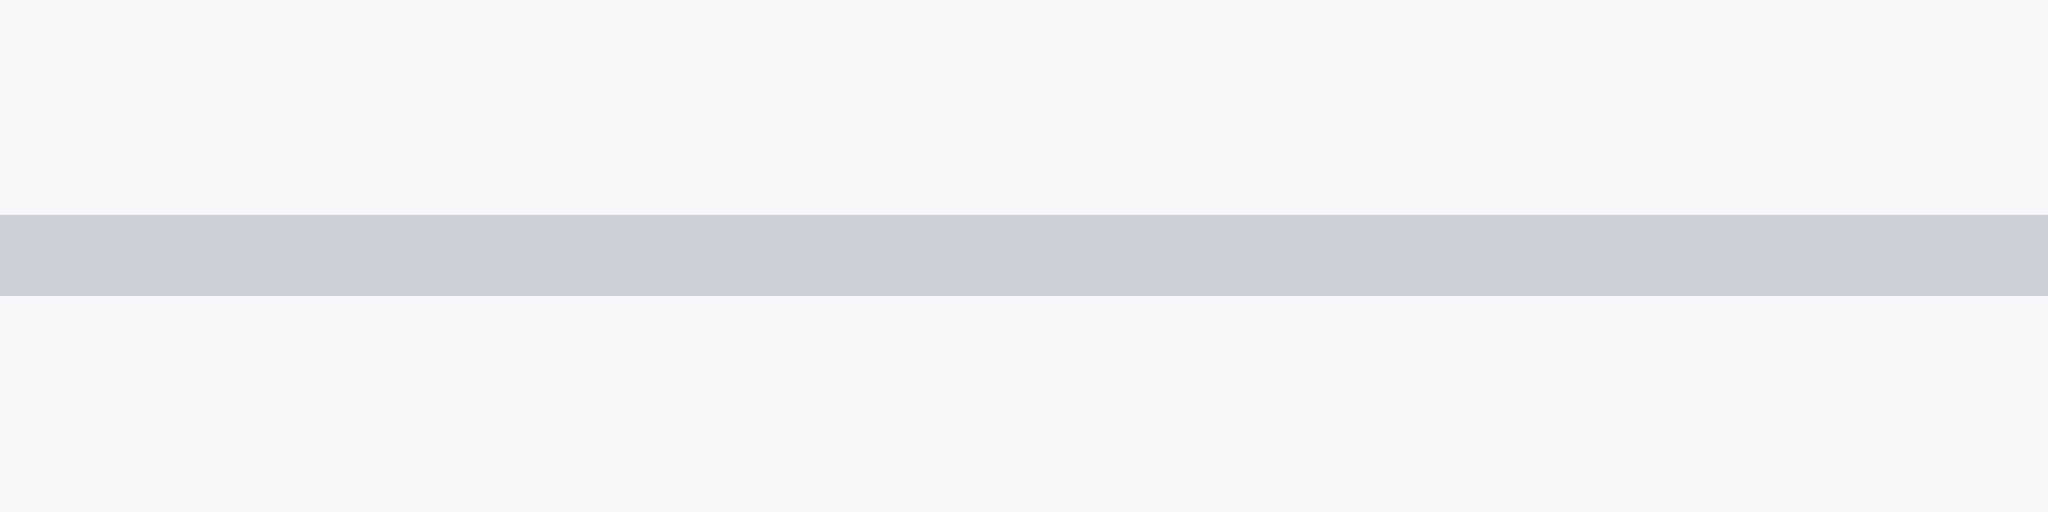
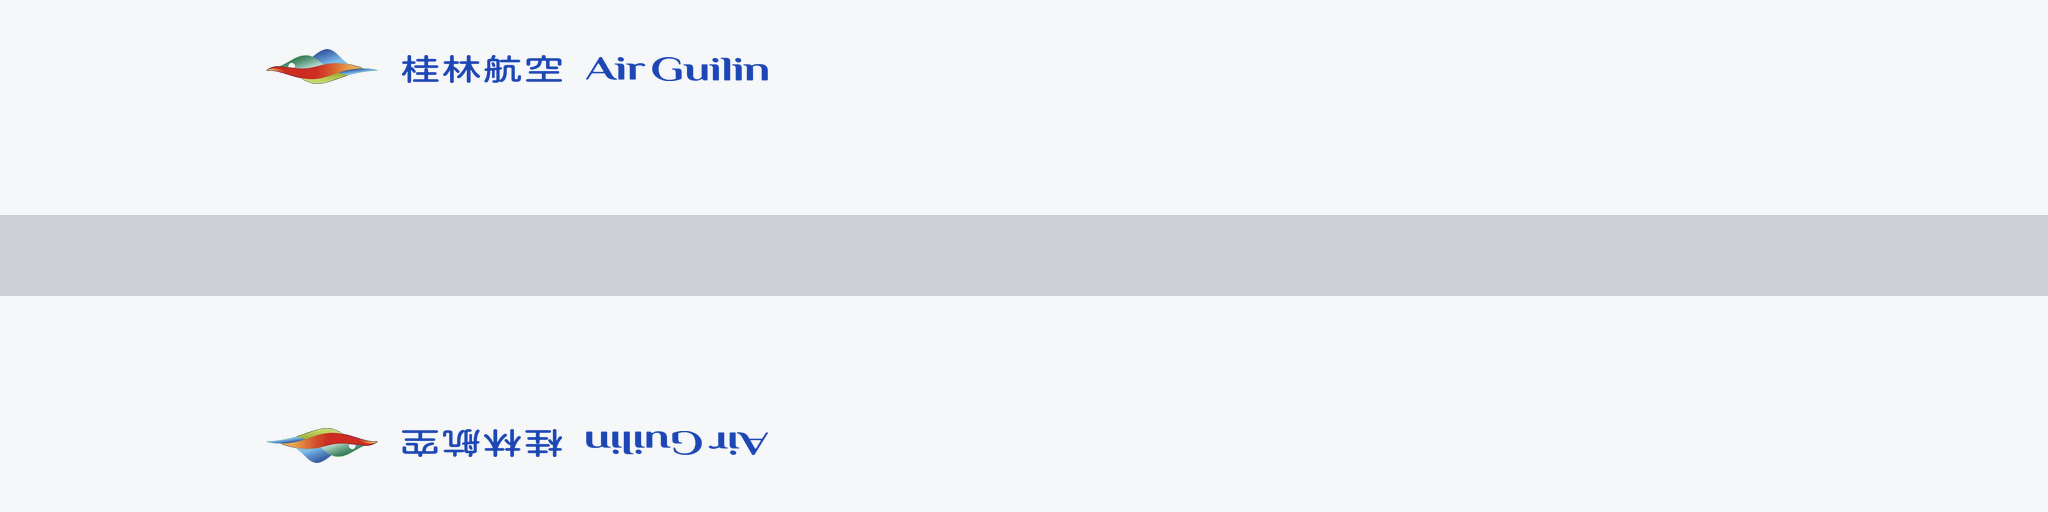
Flight hangar: Air Guilin fuselage titles in the official typefaces
Ported from the main site.

Claude-Session: https://claude.ai/code/session_01DPTgPf9WxpchQEe6ifFgUC

Changed region(s): [[0.125, 0.8438, 0.375, 0.9062], [0.125, 0.0938, 0.375, 0.1562]]

diff --git a/flights.html b/flights.html
@@ -10,8 +10,8 @@
 <link rel="preconnect" href="https://fonts.googleapis.com">
 <link href="https://fonts.googleapis.com/css2?family=Chakra+Petch:wght@400;500;600;700&family=JetBrains+Mono:wght@400;600&family=Pinyon+Script&family=Source+Sans+3:wght@400;600&display=swap" rel="stylesheet">
 <link rel="stylesheet" href="https://cdnjs.cloudflare.com/ajax/libs/leaflet/1.9.4/leaflet.min.css" crossorigin="">
-<script src="aviation.js?v=202610050330"></script>
-<script src="fleet3d.js?v=202610050330"></script>
+<script src="aviation.js?v=202610050400"></script>
+<script src="fleet3d.js?v=202610050400"></script>
 <style>
   /* Flight log: a private page (same travel password and encrypted file as travel.html) in a "cockpit HUD" look, dark or light (site-wide setting). */
   :root {
@@ -544,7 +544,7 @@
 
 <script src="https://cdnjs.cloudflare.com/ajax/libs/leaflet/1.9.4/leaflet.min.js" crossorigin=""></script>
 <script src="site-lang.js"></script>
-<script src="map-base.js?v=202610050330"></script>
+<script src="map-base.js?v=202610050400"></script>
 <script>
 // ─────────────────────────────────────────────────────────────────────────────
 // Data: the flights live inside travel/travel.enc (AES-256-GCM, key derived from the

diff --git a/fleet3d.js b/fleet3d.js
@@ -83,9 +83,7 @@
       over: P => { P.logo('mfegret', 0.155, 0.145, 0.07, '#1a5fae');
         const a = P.title('厦门航空', 0.19, 0.145, 0.04, { col: '#1a5fae', w: 600, cjk: 1, sp: 0.12 });
         P.title([{ t: 'XIAMEN', w: 800 }, { t: 'AIR', w: 400 }], a[1] + 0.012, 0.145, 0.038, { col: '#1a5fae' }); } },
-    GT: { img: 'GT', overOnArt: true, winOnArt: true, name: 'Air Guilin', zh: '桂林航空', engine: W, lip: '#c9d0d8', winglet: '#1a44b8', tail: 'gt',
-      over: P => { const a = P.title([{ logo: 'guilin', col: '#1f4fc0' }], 0.14, tv(0.05), 0.05); const b = P.title('桂林航空', a[1] + 0.01, tv(0.05), 0.05, { col: '#1f4fc0', w: 700, cjk: 1, sp: 0.1 });
-        P.title('Air Guilin', b[1] + 0.015, tv(0.052), 0.052, { col: '#1f4fc0', w: 700, i: 1 }); } },
+    GT: { img: 'GT', winOnArt: true, name: 'Air Guilin', zh: '桂林航空', engine: W, lip: '#c9d0d8', winglet: '#1a44b8', tail: 'gt' },   // titles and logo are in the texture, taken from the official artwork
     HU: { img: 'HU', name: 'Hainan Airlines', zh: '海南航空', engine: W, winglet: '#c8102e', tail: 'hu',
       under: P => {   // red and gold ribbon from the tail, sweeping down under the windows to a point below the forward cabin
         const s = u => Math.max(0, Math.min(1, (u - 0.17) / 0.83));
